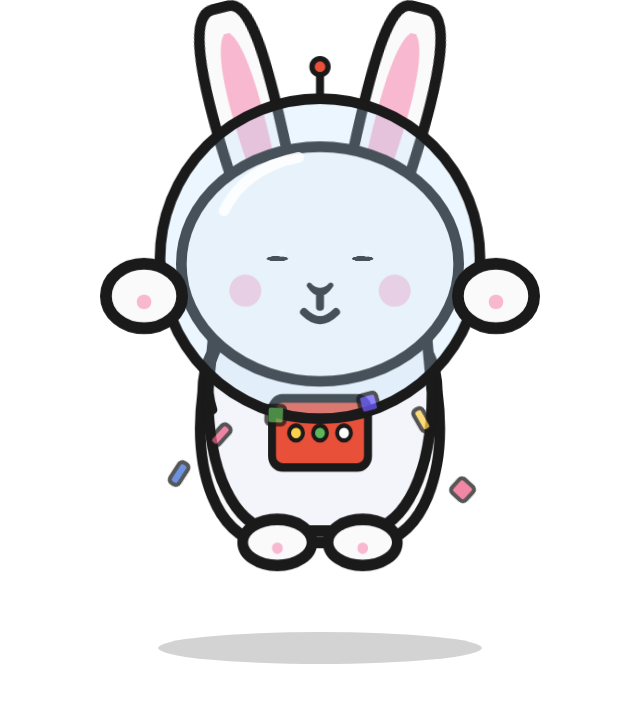
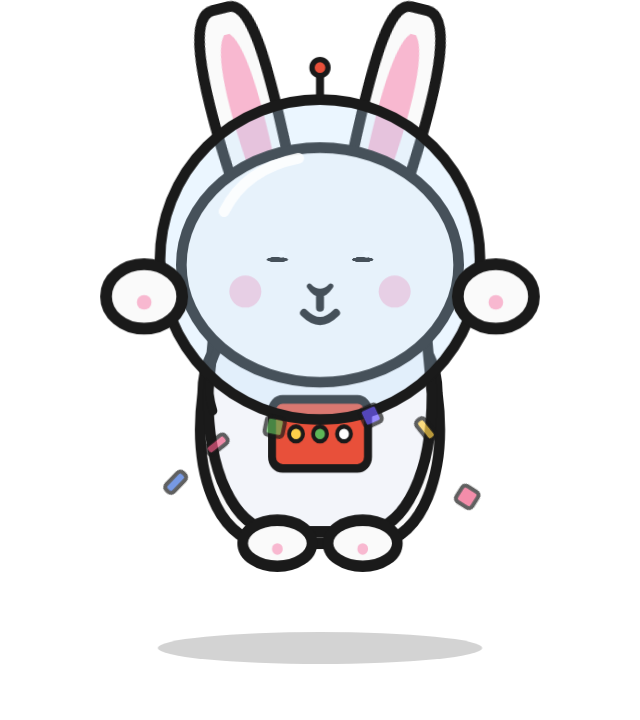
Email bunnies: truly transparent PNGs (the stage body painted white under the render)
Claude-Session: https://claude.ai/code/session_014rADWaDTReK22popugPhF8

diff --git a/app/demo/bunny-render/page.tsx b/app/demo/bunny-render/page.tsx
@@ -13,6 +13,9 @@ export default function BunnyRenderPage() {
   useEffect(() => {
     const sp = new URLSearchParams(window.location.search);
     setQ({ outfit: sp.get("outfit") ?? "bunny_classic", state: sp.get("state") ?? "idle" });
+    // The site body paints white (globals.css); a transparent screenshot needs the whole chain clear.
+    document.documentElement.style.background = "transparent";
+    document.body.style.background = "transparent";
   }, []);
   if (process.env.NODE_ENV === "production" && process.env.NEXT_PUBLIC_PLACEMENT_DEMO !== "1") return null;
   if (!q) return null;
